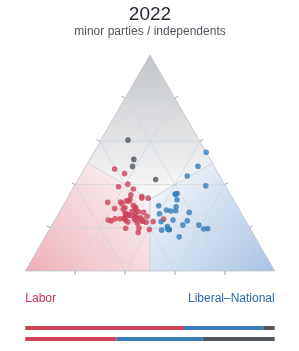
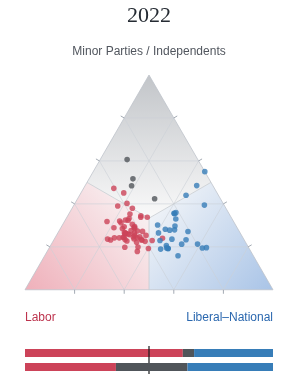
Polish the editorial theme, chart spacing and seats-versus-votes legends

diff --git a/app.py b/app.py
@@ -7,7 +7,7 @@ import pandas as pd
 import streamlit as st
 from streamlit_echarts import st_echarts
 
-st.set_page_config(page_title="minor parties / independents · Victoria, 1982–2022", page_icon=":material/how_to_vote:", layout="wide")
+st.set_page_config(page_title="Victorian Elections · 1982–2022", page_icon=":material/how_to_vote:", layout="wide")
 
 # Read current trusted source on each run: Community Cloud can retain imported
 # helpers across deploys. An isolated module avoids stale code and shared reloads.
@@ -30,31 +30,33 @@ file_versions = tuple(
 first, chapters = load(file_versions)
 
 with st.container(horizontal=True, horizontal_alignment="center"):
-    with st.container(width=1600, gap="large"):
+    with st.container(width=1600, gap="medium"):
         with st.container(gap="xsmall"):
-            st.badge("1982–2022", color="green")
-            st.title("The rise of minor parties / independents in Victorian elections")
+            st.info("1982–2022", icon=":material/calendar_month:", width=190)
+            with st.container(width=960):
+                st.title("The Rise of Minor Parties and Independents in Victorian Elections")
             with st.container(width=1100):
                 st.markdown("For much of the 1980s, Victoria’s lower-house elections were contests between two big party blocs. Over the next four decades, more voters gave their first choice to the Greens, other minor parties or independent candidates. These charts follow that widening field, seat by seat—and show why growing first-choice support does not always mean more seats in Parliament.")
 
-        with st.container(horizontal=True, horizontal_alignment="distribute", vertical_alignment="bottom"):
-            st.markdown(" &nbsp; &nbsp; ".join(f'<span style="color:{color}">●</span> {group}' for group, color in charts.WINNER_COLORS.items()), unsafe_allow_html=True)
-            with st.container(horizontal=True, vertical_alignment="bottom", gap="small"):
-                with st.popover("Reading the charts", icon=":material/info:", key="reading_guide", on_change="rerun") as guide:
-                    with st.container(width=440):
-                        st.markdown("**Each election is represented using a ternary chart, this is a chart that shows three shares that add to 100%.** Here, the corners represent Labor, Liberal–National, and minor parties / independents. Each circle is a seat, positioned using its first-preference vote shares.")
-                        st.markdown("Moving closer to a corner means a larger share for that group. The bottom edge represents no minor-party or independent votes; moving upward means a larger combined share for those candidates. The centre represents an equal three-way split.")
-                        if guide.open:
-                            st_echarts(charts.example_options(),height="300px",key="ternary-example")
-                        st.caption("Dummy data: Labor 40%, Liberal–National 35%, minor parties / independents 25%. The reference lines meet each edge at that share.")
-                        st.markdown("**Why use it?** A two-party chart hides votes outside the major blocs. A ternary chart makes those votes visible while preserving the balance between Labor and Liberal–National. Comparing the same triangle over time reveals both shifts between the majors and the widening field of first choices.")
-                        st.markdown("The shaded regions show which group leads on first preferences. **Circle colour shows the winning group after preferences**, which can differ. Hover for the seat name and whole-percentage shares; the unlabelled edge ticks mark 20, 40, 60 and 80%.")
-                        st.markdown("Choose an electorate to keep its dot and reference lines highlighted in every election where that name appears. Clear the selection to inspect other seats on hover. Boundaries can change even when a name stays the same.")
-                        st.caption("The thin bars below each chart show statewide seats won (top) and first-preference votes (bottom), using the legend colours. Vote shares are weighted by recorded vote counts, not averaged across seats. The bars always include all recorded seats.")
-                        include = st.checkbox("Include flagged historical vote totals", value=True, key="include_flagged")
-                        st.caption("19 historical tables have candidate sums that differ from published formal totals. Shares use the candidate sum; an asterisk on hover flags these seats.")
-                highlight = st.selectbox("Highlight an electorate", sorted(first.electorate.unique().tolist()), index=None, placeholder="Choose an electorate", key="highlight_electorate", width=270)
-        st.caption("Thin bars beneath each triangle: seats won above, first-preference votes below.")
+        with st.container(horizontal=True, vertical_alignment="bottom", gap="small"):
+            with st.popover("Reading the charts", icon=":material/info:", key="reading_guide", on_change="rerun") as guide:
+                with st.container(width=440):
+                    st.markdown("**Each election is represented using a ternary chart, this is a chart that shows three shares that add to 100%.** Here, the corners represent Labor, Liberal–National, and Minor Parties / Independents. Each circle is a seat, positioned using its first-preference vote shares.")
+                    st.markdown("Moving closer to a corner means a larger share for that group. The bottom edge represents no minor-party or independent votes; moving upward means a larger combined share for those candidates. The centre represents an equal three-way split.")
+                    if guide.open:
+                        st_echarts(charts.example_options(),height=f"{charts.EXAMPLE_HEIGHT}px",key="ternary-example")
+                    st.caption("Dummy data: Labor 40%, Liberal–National 35%, Minor Parties / Independents 25%. The reference lines meet each edge at that share.")
+                    st.markdown("**Why use it?** A two-party chart hides votes outside the major blocs. A ternary chart makes those votes visible while preserving the balance between Labor and Liberal–National. Comparing the same triangle over time reveals both shifts between the majors and the widening field of first choices.")
+                    st.markdown("The shaded regions show which group leads on first preferences. **Circle colour shows the winning group after preferences**, which can differ. Hover for the seat name and whole-percentage shares; the unlabelled edge ticks mark 20, 40, 60 and 80%.")
+                    st.markdown("Choose an electorate to keep its dot and reference lines highlighted in every election where that name appears. Clear the selection to inspect other seats on hover. Boundaries can change even when a name stays the same.")
+                    st.caption("The bars below each chart show statewide seats won (top) and first-preference votes (bottom). From left to right: Labor, Minor Parties / Independents, Liberal–National. The vertical tick marks 50%. Vote shares are weighted by recorded vote counts, not averaged across seats. The bars always include all recorded seats.")
+                    include = st.checkbox("Include flagged historical vote totals", value=True, key="include_flagged")
+                    st.caption("19 historical tables have candidate sums that differ from published formal totals. Shares use the candidate sum; an asterisk on hover flags these seats.")
+            highlight = st.selectbox("Highlight an electorate", sorted(first.electorate.unique().tolist()), index=None, placeholder="Choose an electorate", key="highlight_electorate", width=270)
+        with st.container(gap="xxsmall"):
+            st.markdown(" &nbsp; &nbsp; ".join(f'<span style="color:{charts.WINNER_COLORS[group]}">●</span> {group}' for group in ['Labor', charts.MINOR_LABEL, 'Liberal–National']), unsafe_allow_html=True)
+            with st.container(width=470):
+                st.echarts_chart(charts.bar_legend_options(),height=76,theme=None,key="summary_key",alt="Illustrative stacked bars: percent seats above, percent votes below, with Minor Parties / Independents in the middle and a 50 percent reference line.")
 
         visible = first if include else first[first.reconciles]
         for chapter in chapters:
@@ -69,4 +71,4 @@ with st.container(horizontal=True, horizontal_alignment="center"):
                     st_echarts(charts.ternary_options(visible, year, highlight=highlight, summary_df=first), height=f"{charts.CHART_HEIGHT}px", key=f"ternary-{year}")
 
         with st.container(width=1100):
-            st.caption("The circles show seats, not a panel of the same voters. Boundaries, candidates and turnout change between elections, so a changing pattern can reflect both voter preferences and the choices available. The minor parties / independents group brings together candidates with different political outlooks; it is not a single movement. Figures cover Legislative Assembly general elections, with the January 2023 Narracan supplementary poll included in 2022.")
+            st.caption("The circles show seats, not a panel of the same voters. Boundaries, candidates and turnout change between elections, so a changing pattern can reflect both voter preferences and the choices available. The Minor Parties / Independents group brings together candidates with different political outlooks; it is not a single movement. Figures cover Legislative Assembly general elections, with the January 2023 Narracan supplementary poll included in 2022.")

diff --git a/charts.py b/charts.py
@@ -1,5 +1,6 @@
 """ECharts option builders. Geometry and vote calculations are testable in Python."""
 import math
+from typing import Any
 from streamlit_echarts import JsCode
 GROUPS=['Labor','Coalition','Other']
 COLORS={'Labor':'#d34a59','Coalition':'#367ac3','Other':'#c89b35'}
@@ -13,15 +14,16 @@ def common():
 # Shared pixel transform keeps x/y scales identical at every component size.
 TERNARY_GEOMETRY_JS = """
 var height = Math.sqrt(3) / 2;
-var side = Math.min(api.getWidth() - 48, (api.getHeight() - 134) / height);
+var side = Math.min(api.getWidth() - 48, (api.getHeight() - 164) / height);
 var left = (api.getWidth() - side) / 2;
-var top = 54;
+var top = 74;
 var bottom = top + side * height;
 function point(x, y) { return [left + side * x, bottom - side * y]; }
 """
 
-MINOR_LABEL = 'minor parties / independents'
-CHART_HEIGHT = 350
+MINOR_LABEL = 'Minor Parties / Independents'
+CHART_HEIGHT = 380
+EXAMPLE_HEIGHT = 330
 WINNER_COLORS = {'Labor': '#cc4359', 'Liberal–National': '#377db8', MINOR_LABEL: '#50555a'}
 WINNER_KEYS = {'Labor': 'Labor', 'Liberal–National': 'Coalition', MINOR_LABEL: 'Other'}
 
@@ -61,7 +63,7 @@ def ternary_options(df, year, highlight=None, summary_df=None, show_summary=True
         var a=tick[0],offset=tick[1],mark=line(a,[a[0]+offset[0],a[1]+offset[1]],'#8c949f',.8);mark.name='axis-tick';children.push(mark);
       });
     });
-    children.push(line(LC,centre),line(LO,centre),line(CO,centre),text(O[0],O[1]-23,'minor parties / independents','#51565e','center'),text(L[0],L[1]+28,'Labor','#bd344e','left'),text(C[0],C[1]+28,'Liberal–National','#2b68af','right'));
+    children.push(line(LC,centre),line(LO,centre),line(CO,centre),text(O[0],O[1]-23,'Minor Parties / Independents','#51565e','center'),text(L[0],L[1]+28,'Labor','#bd344e','left'),text(C[0],C[1]+28,'Liberal–National','#2b68af','right'));
     return {type:'group',children:children};
     }""".replace('GEOMETRY', TERNARY_GEOMETRY_JS).replace('\n', ' ')).js_code
     render = JsCode("""function(params, api) {
@@ -78,7 +80,7 @@ def ternary_options(df, year, highlight=None, summary_df=None, show_summary=True
       guide(ends[0],'labor'),guide(ends[1],'coalition'),guide(ends[2],'other'),
       label(Math.max(62,Math.min(api.getWidth()-62,ends[0][0])),bottom+16,'Labor '+api.value(2).toFixed(0)+'%','center','labor-result'),
       label(right[0]+(right[0]<api.getWidth()-130?8:-8),right[1],'Liberal–National '+api.value(3).toFixed(0)+'%',right[0]<api.getWidth()-130?'left':'right','coalition-result'),
-      label(Math.max(100,Math.min(api.getWidth()-100,leftEnd[0])),leftEnd[1]+16,'minor parties / independents\\n'+api.value(4).toFixed(0)+'%','center','other-result'),
+      label(Math.max(100,Math.min(api.getWidth()-100,leftEnd[0])),leftEnd[1]+16,'Minor Parties / Independents\\n'+api.value(4).toFixed(0)+'%','center','other-result'),
       label(Math.max(100,Math.min(api.getWidth()-100,p[0])),p[1]-16,api.value(6)+(api.value(5)?' *':''),'center','seat-name')
     ]};
     }""".replace('GEOMETRY', TERNARY_GEOMETRY_JS).replace('\n', ' ')).js_code
@@ -97,15 +99,29 @@ def ternary_options(df, year, highlight=None, summary_df=None, show_summary=True
         for index, (name, shares) in enumerate([('Seats won', summary['seat_shares']), ('First-preference vote', summary['vote_shares'])]):
             bar = JsCode("""function(params,api) {
             GEOMETRY
-            var y=api.getHeight()-25+ROW*11,offset=0,colors=PALETTE,children=[];
-            for(var i=0;i<3;i++){var width=side*api.value(i)/100;children.push({type:'rect',name:'segment-'+i,shape:{x:left+offset,y:y,width:width,height:4},style:{fill:colors[i]}});offset+=width;}
+            var y=api.getHeight()-32+ROW*14,offset=0,colors=PALETTE,children=[],order=[0,2,1];
+            for(var j=0;j<3;j++){var i=order[j],width=side*api.value(i)/100;children.push({type:'rect',name:'segment-'+i,shape:{x:left+offset,y:y,width:width,height:8},style:{fill:colors[i]}});offset+=width;}
+            if(ROW===0)children.push({type:'line',name:'fifty-percent-reference',shape:{x1:left+side/2,y1:api.getHeight()-35,x2:left+side/2,y2:api.getHeight()-7},style:{stroke:'#17191c',lineWidth:1.2},silent:true,z2:10});
             return {type:'group',children:children};
             }""".replace('GEOMETRY',TERNARY_GEOMETRY_JS).replace('ROW',str(index)).replace('PALETTE',repr(list(WINNER_COLORS.values()))).replace('\n',' ')).js_code
             series.append(dict(type='custom',name=name,coordinateSystem='none',renderItem=bar,data=[shares],silent=True,z=1,tooltip=dict(show=False)))
-    options = dict(backgroundColor='#ffffff',animation=False,title=dict(text=str(year),left='center',top=4,padding=0,textStyle=dict(color='#252b33',fontSize=19,fontWeight=500)),tooltip=dict(show=False),series=series)
+    options = dict(backgroundColor='#ffffff',animation=False,title=dict(text=str(year),left='center',top=4,padding=0,textStyle=dict(color='#252b33',fontSize=22,fontWeight=500,fontFamily='Georgia, serif')),tooltip=dict(show=False),series=series)
     if highlight and not (sub.electorate == highlight).any():
-        options['graphic'] = [dict(type='text',left='center',top=305,style=dict(text='No displayed result under this name',fill='#68727e',font='10px sans-serif'))]
+        options['graphic'] = [dict(type='text',left='center',top=330,style=dict(text='No displayed result under this name',fill='#68727e',font='10px sans-serif'))]
     return options
+
+
+def bar_legend_options():
+    """Native ECharts key: illustrative, normalised rows using the chart bar order."""
+    import pandas as pd
+    data = pd.DataFrame({'Measure': ['% seats', '% votes'], 'Labor': [55, 40], MINOR_LABEL: [15, 20], 'Liberal–National': [30, 40]})
+    series = []
+    for group in ['Labor', MINOR_LABEL, 'Liberal–National']:
+        bar: dict[str, Any] = dict(type='bar',name=group,stack='total',barWidth=8,encode=dict(x=group,y='Measure'),itemStyle=dict(color=WINNER_COLORS[group]),silent=True)
+        if not series:
+            bar['markLine'] = dict(silent=True,symbol='none',lineStyle=dict(color='#17191c',width=1.2,type='solid'),label=dict(show=True,formatter='50%',position='start',color='#51565e',fontSize=10),data=[dict(xAxis=50)])
+        series.append(bar)
+    return dict(animation=False,backgroundColor='#ffffff',dataset=dict(source=data),grid=dict(left=65,right=8,top=20,bottom=4),xAxis=dict(type='value',min=0,max=100,show=False),yAxis=dict(type='category',inverse=True,axisTick=dict(show=False),axisLine=dict(show=False),axisLabel=dict(fontSize=12,color='#26313b')),tooltip=dict(show=False),series=series)
 
 
 def example_options():

diff --git a/test_charts.py b/test_charts.py
@@ -24,11 +24,11 @@ class ChartChecks(unittest.TestCase):
   callback=options['series'][0]['renderItem'].replace('--x_x--0_0--','')
   script='const render=('+callback+');'+"""
   for (const width of [245,280,320,520]) {
-   const scene=render({}, {getWidth:()=>width,getHeight:()=>350});
+   const scene=render({}, {getWidth:()=>width,getHeight:()=>380});
    const points=scene.children[3].shape.points;
    const sides=points.map((p,i)=>Math.hypot(p[0]-points[(i+1)%3][0],p[1]-points[(i+1)%3][1]));
    if(Math.max(...sides)-Math.min(...sides)>1e-8)throw Error('Triangle stretched at '+width);
-   if(points.some(p=>p[0]<0||p[0]>width||p[1]<0||p[1]>350))throw Error('Triangle clipped');
+   if(points.some(p=>p[0]<0||p[0]>width||p[1]<0||p[1]>380))throw Error('Triangle clipped');
   }
   """
   subprocess.run(['node','-e',script],check=True,capture_output=True,text=True)
@@ -43,18 +43,18 @@ class ChartChecks(unittest.TestCase):
   self.assertIn('Northcote',[p['name'] for p in labor['data']])
   # The 2014 Prahran winner was Greens, although Coalition led on primaries.
   options=ternary_options(d,2014)
-  greens=next(s for s in options['series'] if s['name']=='minor parties / independents')
+  greens=next(s for s in options['series'] if s['name']=='Minor Parties / Independents')
   self.assertIn('Prahran',[p['name'] for p in greens['data']])
-  self.assertEqual(greens['itemStyle']['color'],WINNER_COLORS['minor parties / independents'])
+  self.assertEqual(greens['itemStyle']['color'],WINNER_COLORS['Minor Parties / Independents'])
  def test_three_winner_groups_cover_every_seat(self):
   from charts import WINNER_COLORS
   d=pd.read_csv(D/'first_preferences.csv')
-  self.assertEqual(list(WINNER_COLORS),['Labor','Liberal–National','minor parties / independents'])
+  self.assertEqual(list(WINNER_COLORS),['Labor','Liberal–National','Minor Parties / Independents'])
   for year in d.election_year.unique():
    series=markers(ternary_options(d,year))
    self.assertEqual(sum(len(s['data']) for s in series),len(d[d.election_year==year]))
   counts={s['name']:len(s['data']) for s in markers(ternary_options(d,2022))}
-  self.assertEqual(counts,{'Labor':56,'Liberal–National':28,'minor parties / independents':4})
+  self.assertEqual(counts,{'Labor':56,'Liberal–National':28,'Minor Parties / Independents':4})
  def test_hover_guides_and_axis_ticks(self):
   import subprocess,shutil,json
   if not shutil.which('node'):self.skipTest('Node is needed to execute the chart renderer')
@@ -66,7 +66,7 @@ class ChartChecks(unittest.TestCase):
   script='const render=('+render+');const background=('+background+');const value='+json.dumps(value)+';'+"""
   function check(x,msg){if(!x)throw Error(msg);}
   for(const width of [245,280,320]) {
-   const api={getWidth:()=>width,getHeight:()=>350,value:i=>value[i],visual:()=> '#d34a59'};
+   const api={getWidth:()=>width,getHeight:()=>380,value:i=>value[i],visual:()=> '#d34a59'};
    const scene=render({},api), bg=background({},api);
    check(bg.children.filter(x=>x.name==='axis-tick').length===12,'Four ticks on every edge');
    const marks=scene.children.filter(x=>x.type==='circle');
@@ -104,6 +104,30 @@ class ChartChecks(unittest.TestCase):
    a=next(s for s in filtered['series'] if s['name']==name)
    b=next(s for s in full['series'] if s['name']==name)
    self.assertEqual(a['data'],b['data'])
+ def test_bars_have_centred_minor_segment_and_halfway_tick(self):
+  import subprocess,shutil,json
+  if not shutil.which('node'):self.skipTest('Node is needed to execute the bar renderer')
+  d=pd.read_csv(D/'first_preferences.csv');o=ternary_options(d,2022)
+  bars=[s for s in o['series'] if s['name'] in ['Seats won','First-preference vote']]
+  for i,bar in enumerate(bars):
+   code=bar['renderItem'].replace('--x_x--0_0--','')
+   script='const render=('+code+');const value='+json.dumps(bar['data'][0])+';'+"""
+   const scene=render({}, {getWidth:()=>310,getHeight:()=>380,value:i=>value[i]});
+   const segments=scene.children.filter(c=>c.type==='rect');
+   if(segments.map(c=>c.name).join(',')!=='segment-0,segment-2,segment-1')throw Error('Minor group must be in the middle');
+   if(!segments.every(c=>c.shape.height===8))throw Error('Unreadable bar height');
+   const left=segments[0].shape.x,end=segments[2].shape.x+segments[2].shape.width;
+   const tick=scene.children.find(c=>c.name==='fifty-percent-reference');
+   if(tick&&Math.abs(tick.shape.x1-(left+end)/2)>1e-8)throw Error('Reference is not at 50 percent');
+   """
+   script=script.replace('const tick=', 'const requireTick='+str(i==0).lower()+';const tick=')
+   script+='if(requireTick&&!tick)throw Error("Missing 50 percent reference");'
+   subprocess.run(['node','-e',script],check=True,capture_output=True,text=True)
+  from charts import bar_legend_options
+  key=bar_legend_options()
+  self.assertEqual(key['dataset']['source'].Measure.tolist(),['% seats','% votes'])
+  self.assertEqual(key['series'][1]['name'],'Minor Parties / Independents')
+  self.assertEqual(key['series'][0]['markLine']['data'],[{'xAxis':50}])
  def test_persistent_selection_and_missing_year(self):
   d=pd.read_csv(D/'first_preferences.csv')
   o=ternary_options(d,2022,highlight='Northcote')
@@ -115,7 +139,7 @@ class ChartChecks(unittest.TestCase):
    series=next(s for s in markers(o) if s['name']=='Labor');value=selected[0]['value']
    render=series['renderItem'].replace('--x_x--0_0--','')
    script='const render=('+render+');const value='+json.dumps(value)+';'+"""
-   const scene=render({}, {getWidth:()=>300,getHeight:()=>350,value:i=>value[i],visual:()=> '#cc4359'});
+   const scene=render({}, {getWidth:()=>300,getHeight:()=>380,value:i=>value[i],visual:()=> '#cc4359'});
    for(const name of ['labor-reference','coalition-reference','other-reference','labor-result','coalition-result','other-result','seat-name']){
     if(scene.children.find(e=>e.name===name).style.opacity!==1)throw Error('Selected guide is hidden');
    }

diff --git a/capture.py b/capture.py
@@ -23,12 +23,14 @@ with sync_playwright() as playwright:
     for width in [1440, 1366]:
         page.set_viewport_size({'width': width, 'height': 1000})
         page.wait_for_timeout(1000)
-        page.locator('iframe').first.scroll_into_view_if_needed()
+        page.get_by_text('1982–2022',exact=True).scroll_into_view_if_needed()
         boxes = [frame.bounding_box() for frame in page.locator('iframe').all()]
         for index in [0, 3, 6, 9]:
             assert max(box['y'] for box in boxes[index:index+3]) - min(box['y'] for box in boxes[index:index+3]) < 2
         assert page.evaluate('getComputedStyle(document.body).backgroundColor') == 'rgb(255, 255, 255)'
         assert min(box['width'] for box in boxes) >= 295, 'Triangles must not shrink at laptop widths'
+        page.get_by_role('heading',level=1).evaluate("el => {for(let p=el;p;p=p.parentElement){p.scrollTop=0;}window.scrollTo(0,0);}")
+        page.wait_for_timeout(200)
         page.screenshot(path=str(ROOT / 'screenshots' / f'story-{width}.png'))
     for row in range(4):
         first = page.locator('iframe').nth(row*3)
@@ -44,9 +46,9 @@ with sync_playwright() as playwright:
     seat = pd.read_csv(ROOT/'data/first_preferences.csv').query('election_year==2022 and electorate=="Northcote"').iloc[0]
     box = frame.bounding_box()
     h = math.sqrt(3)/2
-    side = min(box['width']-48, (box['height']-134)/h)
+    side = min(box['width']-48, (box['height']-164)/h)
     x = (box['width']-side)/2 + side*(seat.coalition_pct+seat.other_pct/2)/100
-    y = 54 + side*h*(1-seat.other_pct/100)
+    y = 74 + side*h*(1-seat.other_pct/100)
     page.mouse.move(box['x']+x, box['y']+y)
     page.wait_for_timeout(400)
     frame.screenshot(path=str(ROOT/'screenshots/ternary-hover-story.png'))
@@ -60,7 +62,7 @@ with sync_playwright() as playwright:
     assert selector.input_value()=='Northcote' or 'Northcote' in page.get_by_test_id('stSelectbox').inner_text()
     page.mouse.move(5,5)
     page.locator('iframe').nth(11).screenshot(path=str(ROOT/'screenshots/electorate-highlight-2022.png'))
-    page.get_by_role('heading',name='The rise of minor parties / independents in Victorian elections',exact=True).scroll_into_view_if_needed()
+    page.get_by_role('heading',level=1).scroll_into_view_if_needed()
     page.get_by_role('button',name='Reading the charts').click()
     page.wait_for_timeout(1400)
     assert page.locator('iframe').count()==13

diff --git a/test_app_reload.py b/test_app_reload.py
@@ -33,7 +33,7 @@ class LiveUpdateChecks(unittest.TestCase):
         import json
         app = AppTest.from_file(str(ROOT / 'app.py'), default_timeout=30).run()
         self.assertFalse(app.exception)
-        self.assertEqual(app.title[0].value, 'The rise of minor parties / independents in Victorian elections')
+        self.assertEqual(' '.join(app.title[0].value.split()), 'The Rise of Minor Parties and Independents in Victorian Elections')
         contexts = json.loads((ROOT / 'data/election_context.json').read_text())
         self.assertEqual([len(section['years']) for section in contexts], [3, 3, 3, 3])
         self.assertEqual([year for section in contexts for year in section['years']], sorted(pd.read_csv(ROOT / 'data/first_preferences.csv').election_year.unique().tolist()))
@@ -49,7 +49,7 @@ class LiveUpdateChecks(unittest.TestCase):
         self.assertFalse(app.exception)
         for component in app.get('component_instance'):
             option=json.loads(component.proto.json_args)['options']
-            points=[p for s in option['series'] if s['name'] in ['Labor','Liberal–National','minor parties / independents'] for p in s['data']]
+            points=[p for s in option['series'] if s['name'] in ['Labor','Liberal–National','Minor Parties / Independents'] for p in s['data']]
             selected=[p for p in points if p['value'][9]]
             expected=[p for p in points if p['name']=='Northcote']
             self.assertEqual(selected,expected)

diff --git a/README.md b/README.md
@@ -1,4 +1,4 @@
-# The rise of minor parties / independents in Victorian elections
+# The Rise of Minor Parties and Independents in Victorian Elections
 
 1982–2022
 
@@ -26,13 +26,13 @@ The skill is installed in this working checkout. Its environment-specific symlin
 
 ## Reading the gallery
 
-- One circle per seat, positioned by **first-preference shares** for Labor, Liberal/National Coalition and minor parties / independents.
-- Colour represents the **winning group after preferences**: Labor (red), Liberal–National (blue), minor parties / independents (dark grey). This includes Greens and independent winners.
+- One circle per seat, positioned by **first-preference shares** for Labor, Liberal/National Coalition and Minor Parties / Independents.
+- Colour represents the **winning group after preferences**: Labor (red), Liberal–National (blue), Minor Parties / Independents (dark grey). This includes Greens and independent winners.
 - All circles use 80% opacity. Hover for the seat name and three reference lines, with whole-percentage vote shares at the edges.
 - Choose a name in **Highlight an electorate** to keep that seat outlined and its guides visible across all elections where the name appears. Clear the selection to return to ordinary hover. A note marks years without a displayed record; seats are not mapped across renamings or boundary changes.
-- Two thin, unlabelled 100% stacked bars sit below every triangle: statewide seats won above, recorded first-preference votes below. They share the winner-group palette. Vote shares are weighted by vote counts, rather than averaged across seats, and both bars always use all recorded seats even when the dot filter is active.
+- Two thin, unlabelled 100% stacked bars sit below every triangle: statewide seats won above, recorded first-preference votes below. They use the same palette, ordered Labor → Minor Parties / Independents → Liberal–National, with a 50% vertical reference. Each strip is eight pixels thick. Vote shares are weighted by vote counts, rather than averaged across seats, and both bars always use all recorded seats even when the dot filter is active.
 - Light grey rules and four unlabelled ticks per edge mark 20, 40, 60 and 80%. The triangle is equilateral at every component width.
-- Three charts per row, with a context column on the left, across four historical periods. Equal 1:1:1:1 columns inside a 1,600px page bound preserve the previous triangle size at laptop widths. Years are centred above each plot; axis labels use group names without a 100% prefix. The date range appears in a green badge above the title. Narrower screens stack the columns. The app uses a white theme.
+- Three charts per row, with a context column on the left, across four historical periods. Equal 1:1:1:1 columns inside a 1,600px page bound preserve the previous triangle size at laptop widths. Years are centred above each plot; axis labels use group names without a 100% prefix. The date range appears in an info box with a calendar icon above the title. Each year has its own title band, separated from the top axis label without shrinking the triangle. Narrower screens stack the columns. The app uses a white theme.
 
 The page contains only the gallery, researched explanations and a compact reading/data popover. The windsock map, data/methods tabs and three-candidate controls have been removed from the app. Earlier research files and chart helpers remain in the repository as working material.
 
@@ -47,7 +47,7 @@ Four three-election periods tell the story of first choices gradually spreading 
 
 Text and research links live in `data/election_context.json`. Sources include the Victorian Parliament’s *Visualising Victoria’s electoral history*, its 2022 election report, the Australian Election Archive and the VEC. Source links are retained for research traceability but not printed under the on-page descriptions. Parliamentary PDFs are retained under `research/context/`.
 
-The reading helper explains the three shares, positions and gridlines. An annotated dummy seat (40% Labor, 35% Liberal–National, 25% minor parties / independents) follows the second paragraph; its reference lines are always visible. The example is only rendered when the guide is open. It is not part of the election dataset.
+The reading helper explains the three shares, positions and gridlines. An annotated dummy seat (40% Labor, 35% Liberal–National, 25% Minor Parties / Independents) follows the second paragraph; its reference lines are always visible. The example is only rendered when the guide is open. It is not part of the election dataset.
 
 ## Data and limits
 
@@ -55,9 +55,15 @@ The gallery contains 1,049 seat-election rows across 12 elections. Historical pr
 
 **19 historical tables fail candidate-sum versus published-formal-total reconciliation.** Their shares use the candidate sum. An asterisk on the hovered name flags these seats; the reading popover can exclude them. Historical coverage remains provisional rather than representing every raw count as independently verified.
 
-minor parties / independents includes Greens and other candidates with differing politics. Seat boundaries and ballot choices change over time, so these are not the same voters tracked across elections. 2022 includes Narracan’s January 2023 supplementary election. There are no 2026 results: the election had not occurred at compilation on 25 November 2026.
+Minor Parties / Independents includes Greens and other candidates with differing politics. Seat boundaries and ballot choices change over time, so these are not the same voters tracked across elections. 2022 includes Narracan’s January 2023 supplementary election. There are no 2026 results: the election had not occurred at compilation on 25 November 2026.
 
 Additional workbooks, final 2PP/2CP counts, intermediate 2022 rounds and map files from earlier work remain available in `data/` and `research/`. They are not loaded or displayed by this app.
+
+## Theme and legends
+
+`.streamlit/config.toml` loads `.streamlit/editorial-theme.toml`. The theme pairs Inter body text with Source Serif 4 headings, uses a white background and near-black text, and sets heading/body sizes, spacing, radii and neutral control surfaces. Google Fonts are declared through Streamlit’s native theme settings. No application CSS is required.
+
+The guide and electorate selector sit above both legends. The colour key matches the bar order; a native ECharts key immediately below it labels dummy rows **% seats** (top) and **% votes** (bottom) and identifies the 50% reference. These labels are shared across the page rather than repeated on every election plot.
 
 ## Live deployments
 
